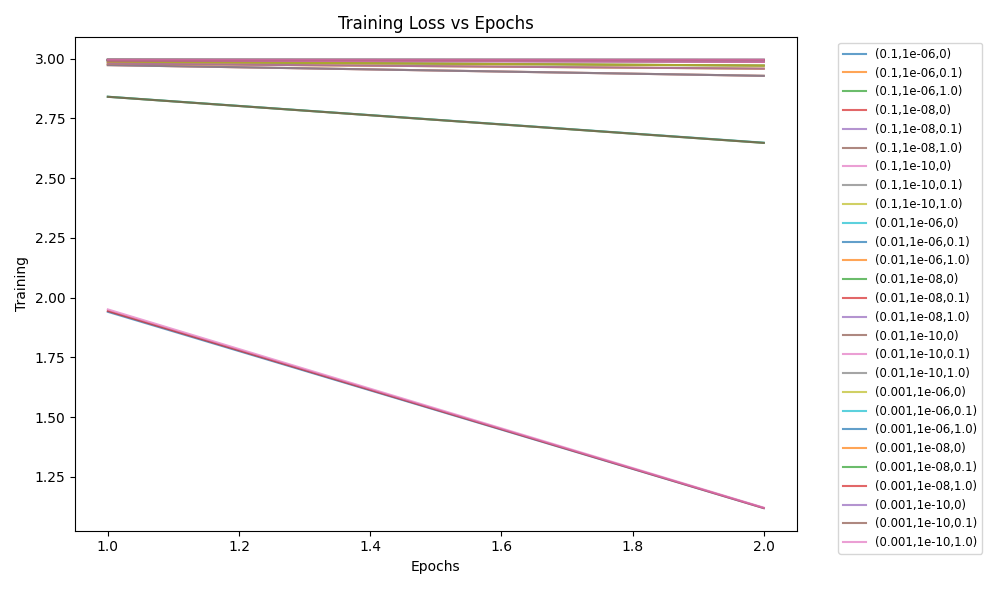
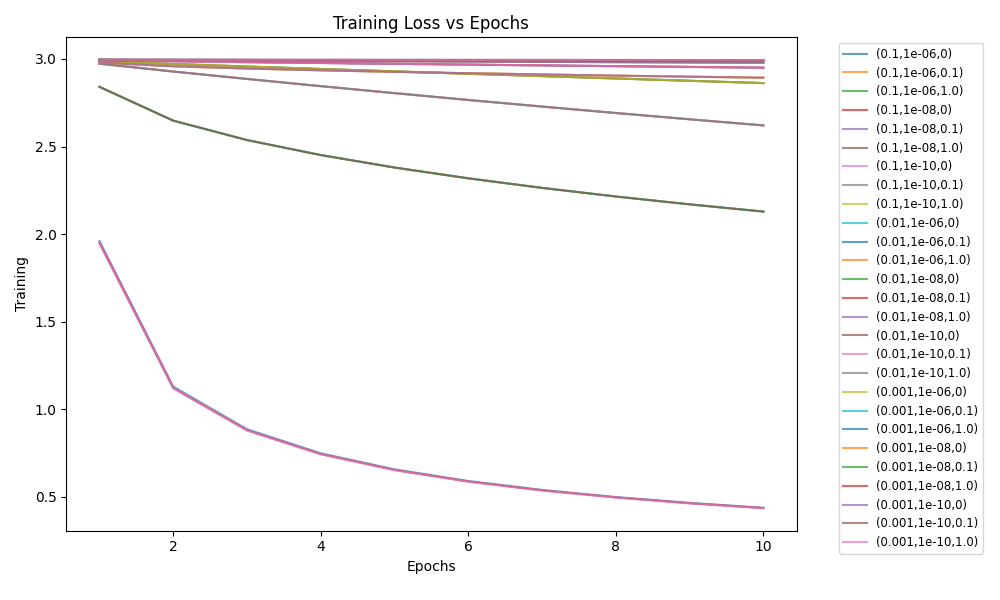
hyperparameters

diff --git a/plot_utils.py b/plot_utils.py
@@ -5,48 +5,61 @@ import collections
 def set_style():
     plt.grid(True, alpha=0.3)
 
+def add_settings_subtitle(ax, settings_str):
+    """Add a grey settings subtitle below the main title."""
+    ax.set_title(ax.get_title() + '\n' + settings_str, fontsize=9, color='grey', loc='center')
+
 def plot_comparisons(history1, name1, history2, name2, output_dir="plots"):
     os.makedirs(output_dir, exist_ok=True)
+    settings = "matrix=diagonal | update=cmd | domain=unconstrained | reg=none | η=0.01 | ε=1e-8 | epochs=10"
     
     # 1. Gradient norm vs iterations
-    plt.figure(figsize=(10, 6))
-    plt.plot(history1['iter_grad_norm'], label=name1, alpha=0.9, linewidth=3)
-    plt.plot(history2['iter_grad_norm'], label=name2, alpha=0.9, linewidth=2, linestyle='--')
-    plt.xlabel('Iterations')
-    plt.ylabel('Gradient Norm ||g_t||')
-    plt.title('Baseline: Gradient Norm vs Iterations')
-    plt.yscale('log')
-    plt.legend()
+    fig, ax = plt.subplots(figsize=(10, 6))
+    ax.plot(history1['iter_grad_norm'], label=name1, alpha=0.9, linewidth=3)
+    ax.plot(history2['iter_grad_norm'], label=name2, alpha=0.9, linewidth=2, linestyle='--')
+    ax.set_xlabel('Iterations')
+    ax.set_ylabel('Gradient Norm ||g_t||')
+    ax.set_title('Baseline: Gradient Norm vs Iterations')
+    add_settings_subtitle(ax, settings)
+    ax.set_yscale('log')
+    ax.legend()
     set_style()
+    plt.tight_layout()
     plt.savefig(os.path.join(output_dir, 'baseline_train_grad_norm_vs_iter.png'))
     plt.close()
 
     # 2. Update magnitude vs iterations
-    plt.figure(figsize=(10, 6))
-    plt.plot(history1['iter_update_magnitude'], label=name1, alpha=0.9, linewidth=3)
-    plt.plot(history2['iter_update_magnitude'], label=name2, alpha=0.9, linewidth=2, linestyle='--')
-    plt.xlabel('Iterations')
-    plt.ylabel('Update Magnitude ||\Delta \\theta_t||')
-    plt.yscale('log')
-    plt.title('Baseline: Update Magnitude vs Iterations')
-    plt.legend()
+    fig, ax = plt.subplots(figsize=(10, 6))
+    ax.plot(history1['iter_update_magnitude'], label=name1, alpha=0.9, linewidth=3)
+    ax.plot(history2['iter_update_magnitude'], label=name2, alpha=0.9, linewidth=2, linestyle='--')
+    ax.set_xlabel('Iterations')
+    ax.set_ylabel('Update Magnitude ||Δθ_t||')
+    ax.set_yscale('log')
+    ax.set_title('Baseline: Update Magnitude vs Iterations')
+    add_settings_subtitle(ax, settings)
+    ax.legend()
     set_style()
+    plt.tight_layout()
     plt.savefig(os.path.join(output_dir, 'baseline_train_update_mag_vs_iter.png'))
     plt.close()
 
 def plot_effective_lr(top_frequent_lrs, top_rare_lrs, output_path="plots/effective_lr.png"):
-    plt.figure(figsize=(8, 6))
-    plt.bar(['Top 100 Frequent Features', 'Top 100 Rare Features'], 
+    settings = "matrix=diagonal | update=cmd | domain=unconstrained | reg=none | η=0.01 | ε=1e-8"
+    fig, ax = plt.subplots(figsize=(8, 6))
+    ax.bar(['Top 100 Frequent Features', 'Top 100 Rare Features'], 
             [top_frequent_lrs, top_rare_lrs], 
             color=['blue', 'orange'])
-    plt.ylabel('Average Final Effective LR (\eta / sqrt(G_t))')
-    plt.title('Adagrad Effective LR Sparsity Check: Frequent vs Rare')
+    ax.set_ylabel('Average Final Effective LR (η / sqrt(G_t))')
+    ax.set_title('Adagrad Effective LR Sparsity Check: Frequent vs Rare')
+    add_settings_subtitle(ax, settings)
     set_style()
+    plt.tight_layout()
     plt.savefig(output_path)
     plt.close()
 
 def plot_part1(histories, output_dir="plots"):
     os.makedirs(output_dir, exist_ok=True)
+    settings = "matrix=diagonal | update=cmd | domain=unconstrained | reg=none | ε=1e-8 | epochs=20"
     
     fig_names = [
         ('epoch_train_loss', 'Training Loss vs Epochs', 'Epochs'),
@@ -57,104 +70,174 @@ def plot_part1(histories, output_dir="plots"):
     ]
     
     for metric, title, xlabel in fig_names:
-        plt.figure(figsize=(10, 6))
-        for (lr, delta, init_acc), hist in histories.items():
+        fig, ax = plt.subplots(figsize=(10, 6))
+        for (lr, init_acc), hist in histories.items():
             x_axis = list(range(1, 1 + len(hist[metric])))
-            plt.plot(x_axis, hist[metric], label=f"({lr},{delta},{init_acc})", alpha=0.7)
-        plt.xlabel(xlabel)
-        plt.ylabel(title.split(' ')[0])
-        plt.title(title)
-        plt.legend(bbox_to_anchor=(1.05, 1), loc='upper left', fontsize='small')
+            ax.plot(x_axis, hist[metric], label=f"lr={lr}, acc={init_acc}", alpha=0.7)
+        ax.set_xlabel(xlabel)
+        ax.set_ylabel(title.split(' ')[0])
+        ax.set_title(f'Part 1: {title}')
+        add_settings_subtitle(ax, settings)
+        ax.legend(bbox_to_anchor=(1.05, 1), loc='upper left', fontsize='small')
         plt.tight_layout()
         plt.savefig(os.path.join(output_dir, f'part1_{metric}.png'))
         plt.close()
 
 def plot_part2(h_custom, h_pytorch, output_dir="plots"):
     os.makedirs(output_dir, exist_ok=True)
+    settings = "matrix=diagonal | update=cmd | domain=unconstrained | reg=l1 | η=0.01 | ε=1e-8 | λ=0.005 | epochs=10"
     
-    plt.figure(figsize=(8, 5))
+    fig, ax = plt.subplots(figsize=(8, 5))
     e_custom = list(range(1, 1 + len(h_custom['epoch_exact_zeros'])))
     e_native = list(range(1, 1 + len(h_pytorch['epoch_exact_zeros'])))
     
-    plt.plot(e_custom, h_custom['epoch_exact_zeros'], marker='o', label="Custom (Exact Soft-Thresholding)")
-    plt.plot(e_native, h_pytorch['epoch_exact_zeros'], marker='x', label="PyTorch (L1 Penalty)")
-    plt.xlabel('Epochs')
-    plt.ylabel('Exact Zero Weights')
-    plt.title('Part 2: True Sparsity Test (Exact 0.0s vs Epoch)')
-    plt.legend()
+    ax.plot(e_custom, h_custom['epoch_exact_zeros'], marker='o', label="Custom (Exact Soft-Thresholding)")
+    ax.plot(e_native, h_pytorch['epoch_exact_zeros'], marker='x', label="PyTorch (L1 Penalty)")
+    ax.set_xlabel('Epochs')
+    ax.set_ylabel('Exact Zero Weights')
+    ax.set_title('Part 2: True Sparsity Test (Exact 0.0s vs Epoch)')
+    add_settings_subtitle(ax, settings)
+    ax.legend()
     set_style()
+    plt.tight_layout()
     plt.savefig(os.path.join(output_dir, 'part2_true_sparsity.png'))
     plt.close()
 
     # Training Loss vs Iterations
-    plt.figure(figsize=(10, 6))
-    plt.plot(h_custom['iter_train_loss'], label="Custom L1 (Soft-Thresholding)", alpha=0.7)
-    plt.plot(h_pytorch['iter_train_loss'], label="PyTorch L1 (Penalty)", alpha=0.7, linestyle='--')
-    plt.xlabel('Iterations')
-    plt.ylabel('Training Loss')
-    plt.title('Part 2: Training Loss vs Iterations')
-    plt.legend()
+    fig, ax = plt.subplots(figsize=(10, 6))
+    ax.plot(h_custom['iter_train_loss'], label="Custom L1 (Soft-Thresholding)", alpha=0.7)
+    ax.plot(h_pytorch['iter_train_loss'], label="PyTorch L1 (Penalty)", alpha=0.7, linestyle='--')
+    ax.set_xlabel('Iterations')
+    ax.set_ylabel('Training Loss')
+    ax.set_title('Part 2: Training Loss vs Iterations')
+    add_settings_subtitle(ax, settings)
+    ax.legend()
     set_style()
+    plt.tight_layout()
     plt.savefig(os.path.join(output_dir, 'part2_iter_train_loss.png'))
     plt.close()
 
 def plot_part3(h_cmd, h_pd, output_dir="plots"):
     os.makedirs(output_dir, exist_ok=True)
+    settings = "matrix=diagonal | domain=unconstrained | reg=l2 | η=0.05 | ε=1e-8 | λ=0.05 | epochs=10"
     
     for metric, xlabel in [('epoch_train_loss', 'Epochs'), ('epoch_test_loss', 'Epochs'), ('iter_train_loss', 'Iterations')]:
-        plt.figure(figsize=(8, 5))
+        fig, ax = plt.subplots(figsize=(8, 5))
         e = list(range(1, 1 + len(h_cmd[metric])))
-        plt.plot(e, h_cmd[metric], marker='s' if 'epoch' in metric else None, label="Update: CMD", alpha=0.7)
-        plt.plot(e, h_pd[metric], marker='d' if 'epoch' in metric else None, label="Update: Primal Dual", linestyle='--', alpha=0.7)
-        plt.xlabel(xlabel)
-        plt.ylabel('Loss')
-        plt.title(f'Part 3: {metric.replace("_", " ").title()}')
-        plt.legend()
+        ax.plot(e, h_cmd[metric], marker='s' if 'epoch' in metric else None, label="Update: CMD", alpha=0.7)
+        ax.plot(e, h_pd[metric], marker='d' if 'epoch' in metric else None, label="Update: Primal-Dual", linestyle='--', alpha=0.7)
+        ax.set_xlabel(xlabel)
+        ax.set_ylabel('Loss')
+        ax.set_title(f'Part 3: {metric.replace("_", " ").title()}')
+        add_settings_subtitle(ax, settings)
+        ax.legend()
         set_style()
+        plt.tight_layout()
         plt.savefig(os.path.join(output_dir, f'part3_{metric}.png'))
         plt.close()
 
     # Gradient Norm vs Iterations
-    plt.figure(figsize=(10, 6))
-    plt.plot(h_cmd['iter_grad_norm'], label="Update: CMD", alpha=0.7)
-    plt.plot(h_pd['iter_grad_norm'], label="Update: Primal Dual", alpha=0.7, linestyle='--')
-    plt.xlabel('Iterations')
-    plt.ylabel('Gradient Norm ||g_t||')
-    plt.yscale('log')
-    plt.title('Part 3: Gradient Norm vs Iterations')
-    plt.legend()
+    fig, ax = plt.subplots(figsize=(10, 6))
+    ax.plot(h_cmd['iter_grad_norm'], label="Update: CMD", alpha=0.7)
+    ax.plot(h_pd['iter_grad_norm'], label="Update: Primal-Dual", alpha=0.7, linestyle='--')
+    ax.set_xlabel('Iterations')
+    ax.set_ylabel('Gradient Norm ||g_t||')
+    ax.set_yscale('log')
+    ax.set_title('Part 3: Gradient Norm vs Iterations')
+    add_settings_subtitle(ax, settings)
+    ax.legend()
     set_style()
+    plt.tight_layout()
     plt.savefig(os.path.join(output_dir, 'part3_iter_grad_norm.png'))
     plt.close()
 
     # Update Magnitude vs Iterations
-    plt.figure(figsize=(10, 6))
-    plt.plot(h_cmd['iter_update_magnitude'], label="Update: CMD", alpha=0.7)
-    plt.plot(h_pd['iter_update_magnitude'], label="Update: Primal Dual", alpha=0.7, linestyle='--')
-    plt.xlabel('Iterations')
-    plt.ylabel('Update Magnitude ||Δθ_t||')
-    plt.yscale('log')
-    plt.title('Part 3: Update Magnitude vs Iterations')
-    plt.legend()
+    fig, ax = plt.subplots(figsize=(10, 6))
+    ax.plot(h_cmd['iter_update_magnitude'], label="Update: CMD", alpha=0.7)
+    ax.plot(h_pd['iter_update_magnitude'], label="Update: Primal-Dual", alpha=0.7, linestyle='--')
+    ax.set_xlabel('Iterations')
+    ax.set_ylabel('Update Magnitude ||Δθ_t||')
+    ax.set_yscale('log')
+    ax.set_title('Part 3: Update Magnitude vs Iterations')
+    add_settings_subtitle(ax, settings)
+    ax.legend()
     set_style()
+    plt.tight_layout()
     plt.savefig(os.path.join(output_dir, 'part3_iter_update_mag.png'))
     plt.close()
 
 def plot_part4(h_unconstrained, h_constrained, output_dir="plots"):
     os.makedirs(output_dir, exist_ok=True)
+    settings = "matrix=diagonal | update=cmd | reg=none | η=0.1 | ε=1e-8 | epochs=10"
     
-    plt.figure(figsize=(8, 5))
+    fig, ax = plt.subplots(figsize=(8, 5))
     e = list(range(1, 1 + len(h_unconstrained['epoch_l1_norm'])))
-    plt.plot(e, h_unconstrained['epoch_l1_norm'], label="Unconstrained AdaGrad")
-    plt.plot(e, h_constrained['epoch_l1_norm'], label="L1 Bounded (c=5.0)")
+    ax.plot(e, h_unconstrained['epoch_l1_norm'], label="Unconstrained (domain=unconstrained)")
+    ax.plot(e, h_constrained['epoch_l1_norm'], label="L1 Bounded (domain=l1_ball, c=5.0)")
     
     # Draw bound line
-    plt.axhline(y=5.0, color='r', linestyle='--', label='Constraint Limit (c=5.0)')
+    ax.axhline(y=5.0, color='r', linestyle='--', label='Constraint Limit (c=5.0)')
     
-    plt.xlabel('Epochs')
-    plt.ylabel('Parameter L1 Norm')
-    plt.title('Part 4: Constrained Optimization Projection')
-    plt.legend()
+    ax.set_xlabel('Epochs')
+    ax.set_ylabel('Parameter L1 Norm')
+    ax.set_title('Part 4: Constrained Optimization Projection')
+    add_settings_subtitle(ax, settings)
+    ax.legend()
     set_style()
+    plt.tight_layout()
     plt.savefig(os.path.join(output_dir, 'part4_l1_norm.png'))
+    plt.close()
+
+def plot_part5(histories, output_dir="plots"):
+    os.makedirs(output_dir, exist_ok=True)
+    settings = "matrix=diagonal | update=cmd | domain=unconstrained | η=0.01 | ε=1e-8 | λ=0.005 | epochs=10"
+    
+    styles = {'No Reg': ('tab:blue', '-', 'o'), 'L1 Reg': ('tab:orange', '--', 's'), 'L2 Reg': ('tab:green', '-.', 'd')}
+    
+    # Training Loss vs Epochs
+    fig, ax = plt.subplots(figsize=(10, 6))
+    for name, hist in histories.items():
+        color, ls, marker = styles[name]
+        e = list(range(1, 1 + len(hist['epoch_train_loss'])))
+        ax.plot(e, hist['epoch_train_loss'], label=name, color=color, linestyle=ls, marker=marker)
+    ax.set_xlabel('Epochs')
+    ax.set_ylabel('Training Loss')
+    ax.set_title('Part 5: Regularization Comparison — Training Loss')
+    add_settings_subtitle(ax, settings)
+    ax.legend()
+    set_style()
+    plt.tight_layout()
+    plt.savefig(os.path.join(output_dir, 'part5_epoch_train_loss.png'))
+    plt.close()
+
+    # Exact Zeros vs Epochs
+    fig, ax = plt.subplots(figsize=(10, 6))
+    for name, hist in histories.items():
+        color, ls, marker = styles[name]
+        e = list(range(1, 1 + len(hist['epoch_exact_zeros'])))
+        ax.plot(e, hist['epoch_exact_zeros'], label=name, color=color, linestyle=ls, marker=marker)
+    ax.set_xlabel('Epochs')
+    ax.set_ylabel('Exact Zero Weights')
+    ax.set_title('Part 5: Regularization Comparison — Sparsity (Exact Zeros)')
+    add_settings_subtitle(ax, settings)
+    ax.legend()
+    set_style()
+    plt.tight_layout()
+    plt.savefig(os.path.join(output_dir, 'part5_epoch_exact_zeros.png'))
+    plt.close()
+
+    # L1 Norm vs Epochs
+    fig, ax = plt.subplots(figsize=(10, 6))
+    for name, hist in histories.items():
+        color, ls, marker = styles[name]
+        e = list(range(1, 1 + len(hist['epoch_l1_norm'])))
+        ax.plot(e, hist['epoch_l1_norm'], label=name, color=color, linestyle=ls, marker=marker)
+    ax.set_xlabel('Epochs')
+    ax.set_ylabel('Parameter L1 Norm')
+    ax.set_title('Part 5: Regularization Comparison — Weight L1 Norm')
+    add_settings_subtitle(ax, settings)
+    ax.legend()
+    set_style()
+    plt.tight_layout()
+    plt.savefig(os.path.join(output_dir, 'part5_epoch_l1_norm.png'))
     plt.close()

diff --git a/experiments.py b/experiments.py
@@ -67,32 +67,30 @@ def run_baseline_sparsity_check(model, optimizer, vectorizer, device):
 
 def run_part1(device, train_loader, test_loader):
     print_part_header("Part 1: Hyperparameter Ablation Study")
-    lrs = [0.1, 0.01, 0.001]
-    deltas = [1e-6, 1e-8, 1e-10]
-    accs = [0, 0.1, 1.0] 
+    lrs = [0.1, 0.05, 0.01, 0.001]
+    accs = [0, 1.0]
     
     histories = {}
     
-    print(f"{'LR':<5} | {'Delta':<6} | {'Acc':<4} | {'Speed':<8} | {'Variance':<8} | {'Final Loss'}")
-    print("-" * 60)
+    print(f"{'LR':<5} | {'Acc':<4} | {'Speed':<8} | {'Variance':<8} | {'Final Loss'}")
+    print("-" * 50)
     for lr in lrs:
-        for delta in deltas:
-            for acc in accs:
-                set_seeds(42)
-                model = LogisticRegression(input_dim=20000, num_classes=20).to(device)
-                opt = AdaGradStrict(model.parameters(), lr=lr, delta=delta, matrix_type='diagonal')
+        for acc in accs:
+            set_seeds(42)
+            model = LogisticRegression(input_dim=20000, num_classes=20).to(device)
+            opt = AdaGradStrict(model.parameters(), lr=lr, matrix_type='diagonal')
+            
+            if acc > 0:
+                inject_initial_accumulator(opt, model, acc)
                 
-                if acc > 0:
-                    inject_initial_accumulator(opt, model, acc)
-                    
-                hist = train(model, opt, train_loader, test_loader, epochs=10, device=device)
-                histories[(lr, delta, acc)] = hist
-                
-                speed = hist['convergence_speed']
-                var = hist['smoothness_variance']
-                floss = hist['final_train_loss']
-                print(f"{lr:<5} | {delta:<6} | {acc:<4} | {speed:8.4f} | {var:8.4f} | {floss:.4f}")
-                
+            hist = train(model, opt, train_loader, test_loader, epochs=20, device=device)
+            histories[(lr, acc)] = hist
+            
+            speed = hist['convergence_speed']
+            var = hist['smoothness_variance']
+            floss = hist['final_train_loss']
+            print(f"{lr:<5} | {acc:<4} | {speed:8.4f} | {var:8.4f} | {floss:.4f}")
+            
     plot_utils.plot_part1(histories)
 
 def run_part2(device, train_loader, test_loader):
@@ -143,6 +141,26 @@ def run_part4(device, train_loader, test_loader):
     
     plot_utils.plot_part4(h_un, h_c)
 
+def run_part5(device, train_loader, test_loader):
+    print_part_header("Part 5: Regularization Comparison (None vs L1 vs L2)")
+    lam = 0.005
+    
+    configs = [
+        ("No Reg", {'regularizer': 'none'}),
+        ("L1 Reg", {'regularizer': 'l1', 'lambda_reg': lam}),
+        ("L2 Reg", {'regularizer': 'l2', 'lambda_reg': lam}),
+    ]
+    
+    histories = {}
+    for name, kwargs in configs:
+        set_seeds(42)
+        model = LogisticRegression(20000, 20).to(device)
+        opt = AdaGradStrict(model.parameters(), lr=0.01, **kwargs)
+        hist = train(model, opt, train_loader, test_loader, epochs=10, device=device)
+        histories[name] = hist
+    
+    plot_utils.plot_part5(histories)
+
 if __name__ == "__main__":
     device = 'cuda' if torch.cuda.is_available() else 'cpu'
     print(f"Using device: {device}")
@@ -156,5 +174,6 @@ if __name__ == "__main__":
     run_part2(device, train_ld, test_ld)
     run_part3(device, train_ld, test_ld)
     run_part4(device, train_ld, test_ld)
+    run_part5(device, train_ld, test_ld)
     
-    print("\nAll Part 1-4 Experiments successfully generated to plots/ folder.")
+    print("\nAll Part 1-5 Experiments successfully generated to plots/ folder.")
